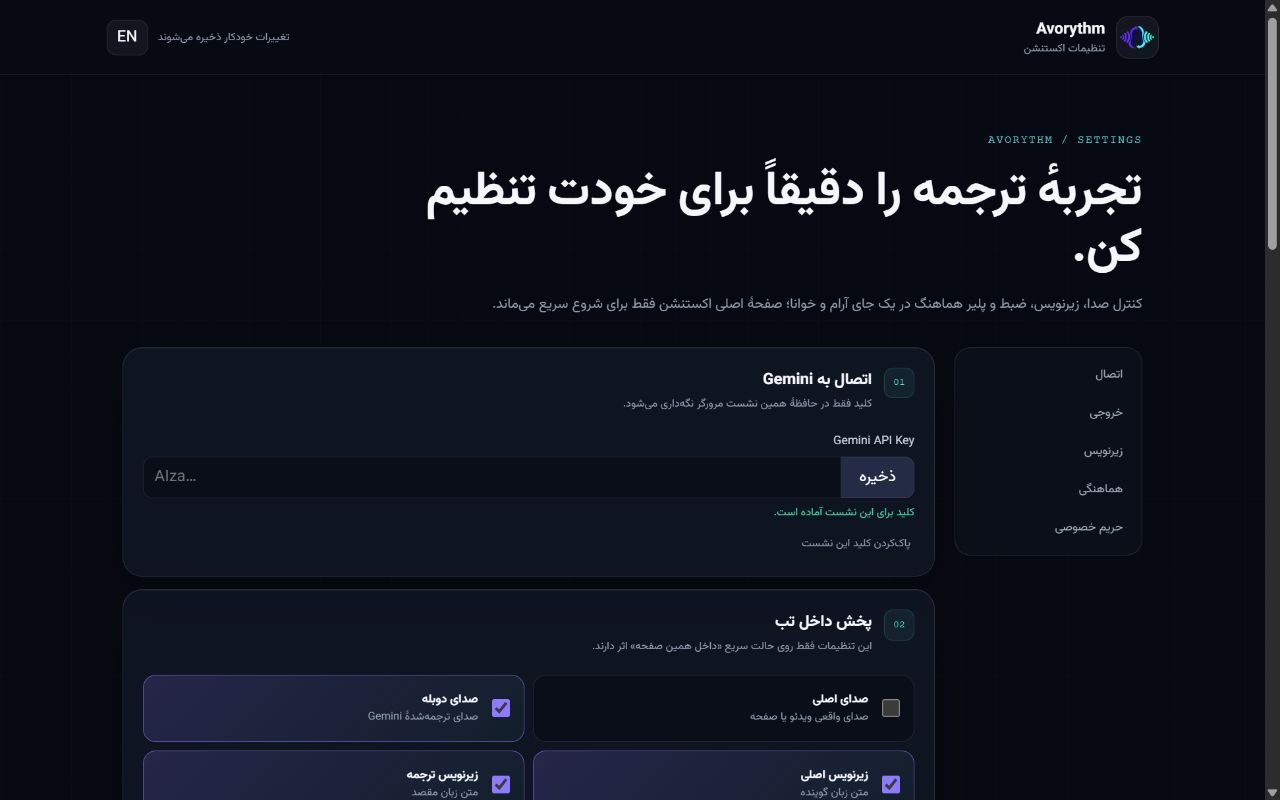
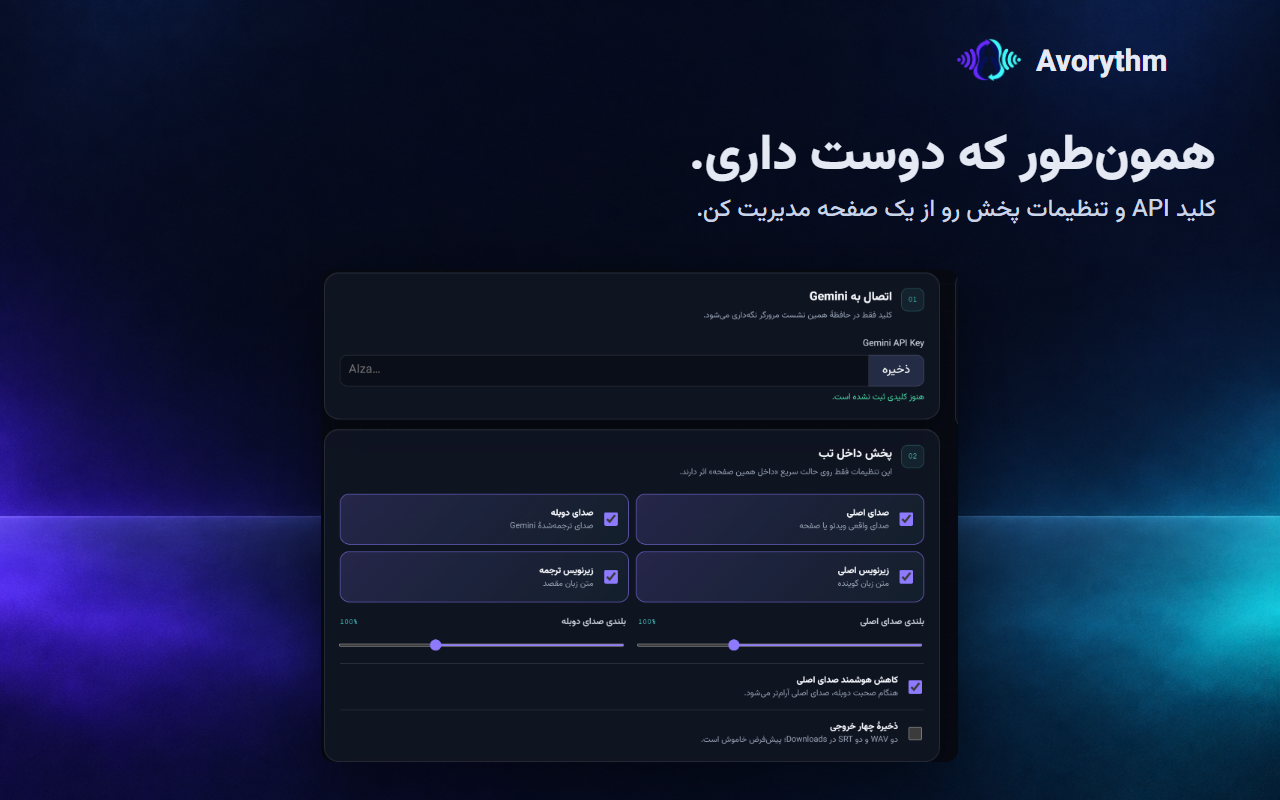
docs: refresh bilingual visual assets

diff --git a/docs/HELP.md b/docs/HELP.md
@@ -67,7 +67,7 @@ File Studio keeps the source and generated outputs on your computer. It sends ex
 
 ## 2. Browser extension
 
-![Avorythm extension start screen](../store-assets/en/01-popup.png)
+![Avorythm extension start screen](images/extension/popup-en.png)
 
 ### Install
 
@@ -75,7 +75,7 @@ Install [Avorythm from the Chrome Web Store](https://chromewebstore.google.com/d
 
 ### First-time setup — required
 
-![Avorythm extension connection and consent settings](../store-assets/en/02-settings.png)
+![Avorythm extension connection and consent settings](images/extension/settings-en.png)
 
 1. Open Avorythm and select **Open settings**.
 2. Save your Gemini API key. The key stays in Chrome session storage and is cleared after the browser fully exits.
@@ -89,13 +89,13 @@ Install [Avorythm from the Chrome Web Store](https://chromewebstore.google.com/d
 
 **Synchronized recorder & player** prioritizes stable synchronization. Capture runs as a producer, while a separate player consumes the recorded stream after the configured safety lead—20 seconds by default. Pausing, seeking, switching tabs, or fullscreening the Avorythm player does not pause capture.
 
-![Synchronized recorder settings](../store-assets/en/03-sync-settings.png)
+![Synchronized recorder settings](images/extension/sync-settings-en.png)
 
 The faster engine sends selected-tab audio directly to Gemini 3.5 Live Translate. For tighter timing, select **Whisper + LLM + Gemini 3.1 Live**: short selected-tab audio windows go directly to Groq Whisper, which timestamps complete utterances; the free Gemini text-model pool translates the resulting transcript with batch context, and one serialized Gemini 3.1 Flash Live session renders the selected voice. Avorythm preserves the model's natural PCM and anchors precise-mode captions to each generated PCM interval; the approximate Gemini 3.5 transcript path applies one calibrated 2.5-second display offset. Capture progress appears independently while AI processing catches up. Chrome asks for access to `api.groq.com`; both API keys remain session-only, and the Groq transfer requires its own versioned consent. On restricted networks, add `api.groq.com` to your proxy/VPN route (for example through `127.0.0.1:10808`). The extension tests that route before capture, without changing Chrome's global proxy settings.
 
 ### Use the synchronized recorder & player
 
-![Avorythm synchronized recorder and player](../store-assets/en/04-player.png)
+![Avorythm synchronized recorder and player](images/extension/player-en.png)
 
 1. Start the source video in a normal tab, open Avorythm, choose **Synchronized recorder & player**, and press Start.
 2. Wait until the safety lead is ready, then start playback. Capture continues ahead independently.
@@ -108,7 +108,7 @@ The player cannot capture DRM-protected video or Chrome-internal pages. Use **On
 
 ### Subtitles on any page
 
-![Translated subtitle overlay](../store-assets/en/05-subtitles.png)
+![Translated subtitle overlay](images/extension/subtitles-en.png)
 
 Enable Source subtitles, Translated subtitles, or both. Drag the glass subtitle card to another corner, resize it, and scroll longer content. Completed sentences replace the current live line instead of building one endless paragraph.
 

diff --git a/store-assets/README.md b/store-assets/README.md
@@ -1,0 +1,19 @@
+# Chrome Web Store visuals / تصاویر فروشگاه کروم
+
+Use these files in the corresponding Chrome Web Store listing fields. They are **listing images**, not part of the extension package.
+
+| Field | English listing | Persian listing |
+| --- | --- | --- |
+| Small promo tile (440×280) | `promo-small.png` | `promo-small.png` |
+| Marquee (1400×560) | `promo-marquee.png` | `promo-marquee.png` |
+| Screenshot 1 — start (1280×800) | `en/01-popup.png` | `fa/01-popup.png` |
+| Screenshot 2 — settings (1280×800) | `en/02-settings.png` | `fa/02-settings.png` |
+| Screenshot 3 — synchronized playback settings (1280×800) | `en/03-sync-settings.png` | `fa/03-sync-settings.png` |
+| Screenshot 4 — synchronized player (1280×800) | `en/04-player.png` | `fa/04-player.png` |
+| Screenshot 5 — subtitles (1280×800) | `en/05-subtitles.png` | `fa/05-subtitles.png` |
+
+The images show the current interface with local demo content. The illustrated user guides use separate, uncomposited interface captures in `docs/images/extension/`. Re-capture both sets if the UI changes materially. Do not add the listing images to `extension/` or the uploaded extension ZIP.
+
+---
+
+این فایلها را در بخشهای متناظر صفحهٔ Chrome Web Store بارگذاری کن؛ **جزء بستهٔ خود اکستنشن نیستند**. برای صفحهٔ انگلیسی از پوشهٔ `en` و برای صفحهٔ فارسی از `fa` استفاده کن. دو تصویر تبلیغاتی بین هر دو زبان مشترکاند. اسکرینشاتهای راهنمای کاربر در `docs/images/extension/` جداگانه قرار دارند و تصاویر ترکیبی تبلیغاتی نیستند. اگر رابط برنامه بهطور محسوس تغییر کرد، تصاویر هر دو زبان را دوباره بگیر.

diff --git a/README.fa.md b/README.fa.md
@@ -13,6 +13,10 @@
 </p>
 
 <p align="center">
+  <img src="assets/branding/readme-cover-fa.png" alt="اپ دسکتاپ و اکستنشن مرورگر Avorythm" width="100%">
+</p>
+
+<p align="center">
   <a href="https://github.com/msmahdinejad/avorythm/actions/workflows/ci.yml"><img alt="CI" src="https://img.shields.io/github/actions/workflow/status/msmahdinejad/avorythm/ci.yml?branch=main&label=CI"></a>
   <a href="https://github.com/msmahdinejad/avorythm/releases"><img alt="Release" src="https://img.shields.io/github/v/release/msmahdinejad/avorythm?label=Release"></a>
   <img alt="Python 3.12" src="https://img.shields.io/badge/Python-3.12-3776AB?logo=python&logoColor=white">

diff --git a/README.md b/README.md
@@ -12,6 +12,10 @@
 </p>
 
 <p align="center">
+  <img src="assets/branding/readme-cover-en.png" alt="Avorythm desktop app and browser extension" width="100%">
+</p>
+
+<p align="center">
   <a href="https://github.com/msmahdinejad/avorythm/actions/workflows/ci.yml"><img alt="CI" src="https://img.shields.io/github/actions/workflow/status/msmahdinejad/avorythm/ci.yml?branch=main&label=CI"></a>
   <a href="https://github.com/msmahdinejad/avorythm/releases"><img alt="Release" src="https://img.shields.io/github/v/release/msmahdinejad/avorythm?label=Release"></a>
   <img alt="Python 3.12" src="https://img.shields.io/badge/Python-3.12-3776AB?logo=python&logoColor=white">
